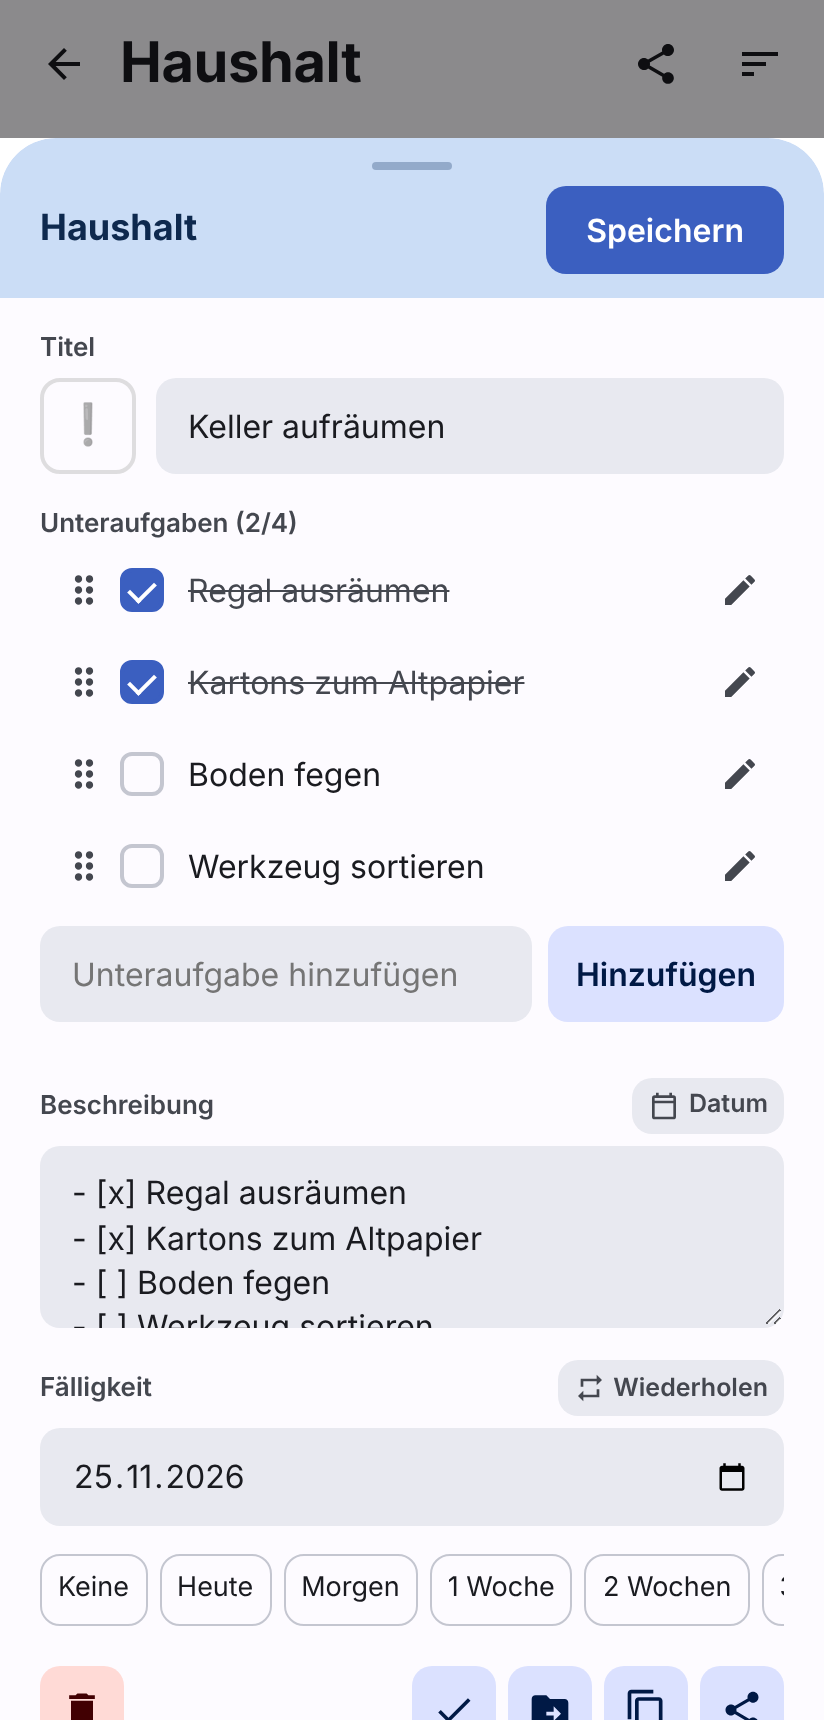
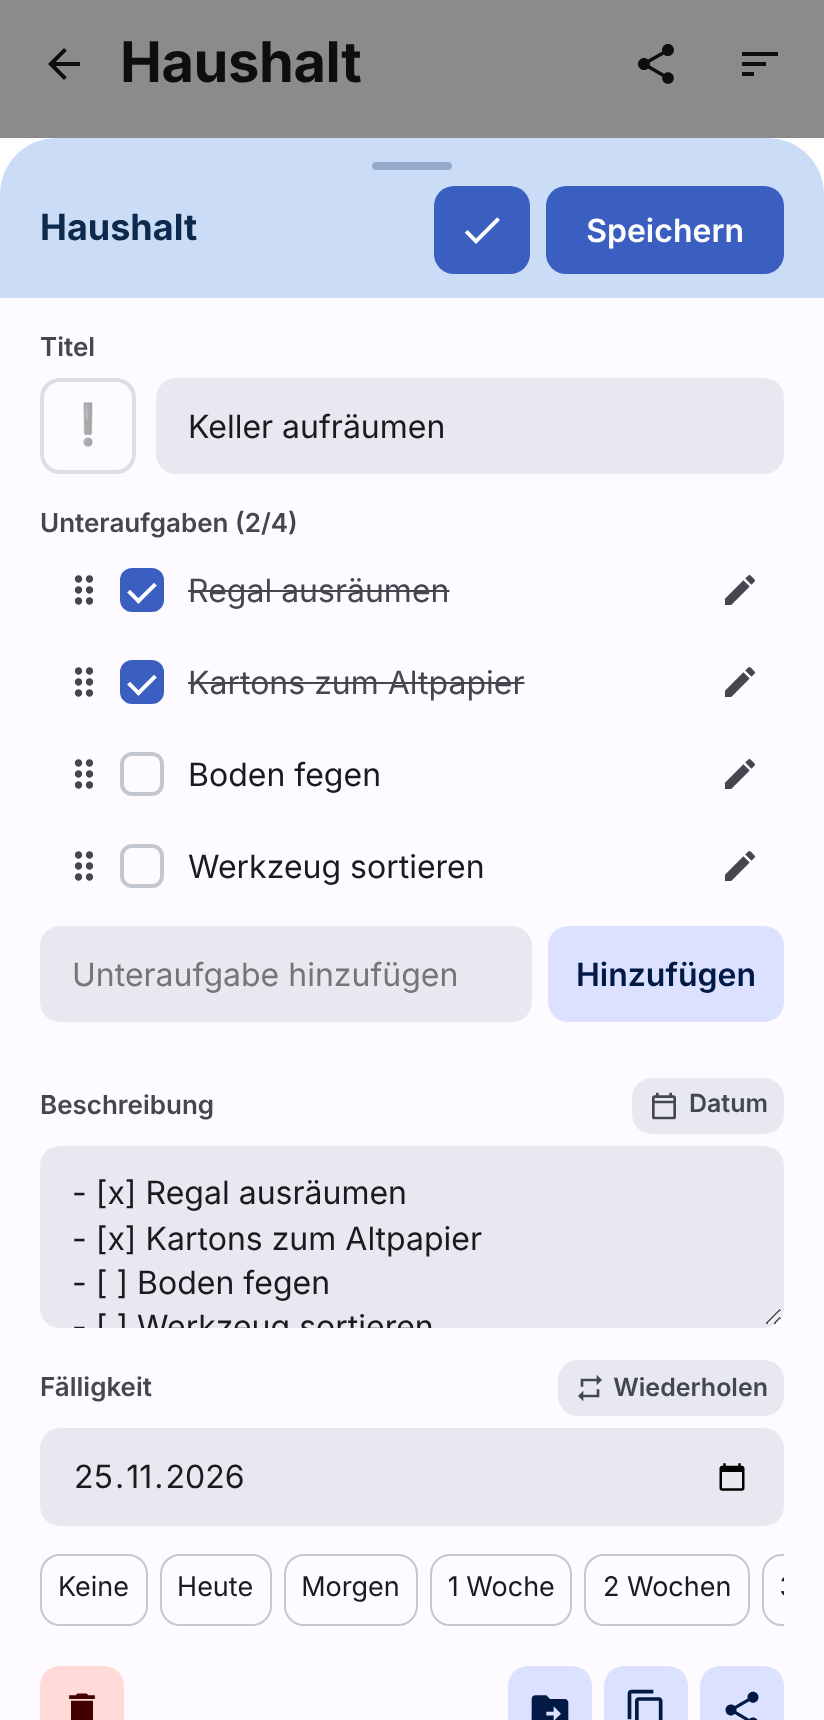
1.1.1: Erledigt-Knopf oben neben Speichern
Claude-Session: https://claude.ai/code/session_01BsJ96owDJnezbsoGNxPtMU

Changed region(s): [[0.5158, 0.0924, 0.6675, 0.1849], [0.4854, 0.9552, 0.6068, 1.0]]

diff --git a/app/js/sheet.js b/app/js/sheet.js
@@ -284,12 +284,12 @@ export class ItemSheet {
     const save = h('button', { class: 'btn btn-primary btn-compact press', type: 'submit' }, t('sheet.save'));
     // Wiederholen nur mit Datum und Beschreibung (die Wiederholung steht in der Beschreibung)
     const recurrence = description && due ? recurrenceButton(storedRecurrence) : null;
-    // Speichern oben rechts. Unten links Löschen, rechts Erledigt (nur offen) oder Wieder öffnen (nur erledigt), Verschieben, Duplizieren, Teilen.
+    // Oben rechts Erledigt (nur offen) und Speichern. Unten links Löschen, rechts Wieder öffnen (nur erledigt), Verschieben, Duplizieren, Teilen.
+    const fields = () => ({ title, prio, description, due, originalDue, recurrence: recurrence?.state ?? null });
+    const done = !isCompleted(item) && features.update
+      ? h('button', { class: 'btn btn-primary btn-compact btn-done press', type: 'button', 'aria-label': t('item.markDone'), title: t('item.markDone'), onclick: () => this.#complete(list, item, fields()) }, icon('check', 24))
+      : null;
     const right = [];
-    if (!isCompleted(item) && features.update) {
-      const fields = () => ({ title, prio, description, due, originalDue, recurrence: recurrence?.state ?? null });
-      right.push(h('button', { class: 'btn btn-icon press', type: 'button', 'aria-label': t('item.markDone'), title: t('item.markDone'), onclick: () => this.#complete(list, item, fields()) }, icon('check', 22)));
-    }
     if (isCompleted(item)) {
       right.push(h('button', { class: 'btn btn-icon press', type: 'button', 'aria-label': t('item.reopen'), title: t('item.reopen'), onclick: () => this.#reopen(list, item) }, icon('reopen', 22)));
     }
@@ -314,7 +314,7 @@ export class ItemSheet {
         'div',
         { class: 'sheet-band', style: hueStyle(list.id) },
         h('div', { class: 'sheet-handle' }),
-        h('div', { class: 'sheet-head sheet-head-edit' }, h('span', { class: 'sheet-band-name' }, list.name), save),
+        h('div', { class: 'sheet-head sheet-head-edit' }, h('span', { class: 'sheet-band-name' }, list.name), h('div', { class: 'sheet-head-buttons' }, done, save)),
       ),
       h('div', { class: 'field' }, h('label', { class: 'field-label', for: 'sheet-title' }, t('item.title')), h('div', { class: 'title-row' }, prio, title)),
       checklistBox,

diff --git a/app/sw.js b/app/sw.js
@@ -1,7 +1,7 @@
 // Service Worker: liefert die App-Dateien aus dem Cache, damit Merker auch ohne Netz startet.
 // Aktualisierung: Jede Version hat einen eigenen Cache, der bei der Installation komplett und am HTTP-Cache vorbei gefüllt wird.
 // CACHE_VERSION bei jeder Änderung an den App-Dateien erhöhen und mit js/version.js gleich halten.
-const CACHE_VERSION = '1.1.0';
+const CACHE_VERSION = '1.1.1';
 const CACHE_NAME = `merker-${CACHE_VERSION}`;
 
 const ASSETS = [

diff --git a/app/css/app.css b/app/css/app.css
@@ -1971,6 +1971,19 @@ body:has(#fab:not([hidden])) #content {
   min-height: 44px;
   padding: 0 20px;
 }
+
+.sheet-head-buttons {
+  flex: none;
+  display: flex;
+  gap: 8px;
+}
+
+.btn-done {
+  width: 48px;
+  padding: 0;
+  display: grid;
+  place-items: center;
+}
 .filter-seg {
   flex: 0 1 auto;
   min-width: 0;

diff --git a/app/js/version.js b/app/js/version.js
@@ -1,2 +1,2 @@
 // Muss mit CACHE_VERSION in sw.js übereinstimmen, damit Updates der App-Dateien ankommen.
-export const APP_VERSION = '1.1.0';
+export const APP_VERSION = '1.1.1';

diff --git a/CHANGELOG.md b/CHANGELOG.md
@@ -2,11 +2,15 @@
 
 Neueste Version oben. Jede Version hat eine eigene Überschrift.
 
+## Version 1.1.1
+
+Der Knopf "Erledigt" im Dialog sitzt jetzt oben links neben "Speichern" statt unten bei den anderen Knöpfen.
+
 ## Version 1.1.0
 
 Schnell-Datum im Dialog und bei neuen Aufgaben in einer Zeile zum Wischen: Keine, Heute, Morgen, dann 1 bis 3 Wochen, Monate und Jahre ab heute. "Nächste Woche" fällt dort weg. Gibt es den Tag im Zielmonat nicht, gilt der letzte Tag des Monats (31. Januar plus 1 Monat = 28. Februar). Am PC zeigt der Mauszeiger auf einem Knopf das Datum.
 
-Neu im Dialog einer offenen Aufgabe: Knopf "Erledigt" unten rechts. Änderungen im Dialog werden vorher gespeichert.
+Neu im Dialog einer offenen Aufgabe: Knopf "Erledigt". Änderungen im Dialog werden vorher gespeichert.
 
 ## Version 1.0.2
 
